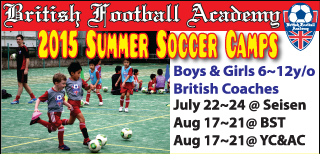
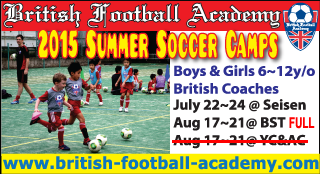
Camp
Delete YCAC camp

diff --git a/e/pages/camp.html b/e/pages/camp.html
@@ -82,7 +82,7 @@
 												<p><img src="../../images/photos/2013camp1.jpg" alt="pic" height="208" width="215" align="right" hspace="5"><b class="red">&quot;Football Fun in the Sun.&quot;<br>
 														What better way for your kids to spend their time this summer?</b><b class="navy"><br>
 													</b><b class="red"><br>
-													</b>All 6-12 year olds are welcome to join our age-specific summer soccer camps at<b> Seisen International School,</b> <b>British School Tokyo, Showa Campus and Yokohama Country &amp; Athletic Club.</b> Let our <b>English FA qualified, all-British coaches</b> enthral, entertain and educate your young ones with their wealth of knowledge and lively, energetic characters. We encourage participants to enrol for the full 5 action-packed-days of football games and fun, but do accept players on a per-day basis. All children will be presented with an <b>official BFA Camp T-shirt and certificate of achievement.</b><b class="red"><br>
+													</b>All 6-12 year olds are welcome to join our age-specific summer soccer camps at<b> Seisen International School</b> <b>and British School Tokyo, Showa Campus.</b> Let our <b>English FA qualified, all-British coaches</b> enthral, entertain and educate your young ones with their wealth of knowledge and lively, energetic characters. We encourage participants to enrol for the full 5 action-packed-days of football games and fun, but do accept players on a per-day basis. All children will be presented with an <b>official BFA Camp T-shirt, hat and certificate of achievement.</b><b class="red"><br>
 													</b><b>REGISTER <a class="content" href="campreg.html">ON-LINE HERE</a></b><b class="red"><br>
 														<br>
 													</b><b>Dates, Venues &amp; Prices per day:</b></p>
@@ -100,16 +100,7 @@
 													
 												</ol>
 												<p><img src="../../images/photos/2013camp_BST.jpg" alt="BST leo field" height="168" width="600" align="middle" border="0"></p>
-												<p><b class="red">YOKOHAMA</b><br>
-													<b>CAMP 3:</b> August 17th (Mon) - 21st (Fri) 5-day camp @ <b><a class="content" href="venueyokohama.html">Yokohama Country &amp; Athletic Club</a></b> (<b><a class="content" href="../../images/mats/Map-to-YCAC.gif?lat=35%2F25%2F14.139&lon=139%2F39%2F20.855&layer=1&sc=3&mode=map&size=l&pointer=on&p=&CE.x=396&CE.y=408" target="_blank">MAP</a></b>)</p>
-												<img src="../../images/photos/ycac_camp.jpg" alt="BST leo field" height="232" width="600" align="middle" border="0">
-												<p><b>Courses &amp; Prices per day @ YC&amp;AC - </b><b class="red"><a class="content" href="venues.html"></a></b><b>(<a class="content" href="campreg.html">sign-up here</a>):</b><br>
-												</p>
-												<ol>
-													<li><b>Ages 6 ~ 8,</b> Time: 3:00 pm ~ 5:00 pm (2 hrs) BFA Members: ¥4,000 <i class="navy">Non BFA Members</i>: ¥5,000<br>
-													<li><b>Ages 9 ~ 12,</b> Time: 3:00 pm ~ 6:00 pm (3 hrs) BFA Members: ¥6,000 <i class="navy">Non BFA Members</i>: ¥7,000<br>
-														(*these times are subject to change)
-												</ol>
+												<p><b class="red"><a class="content" href="venues.html"></a></b></p>
 												<p><img src="../../images/photos/2013camp_cert.jpg" alt="Camp certificate" height="168" width="100" align="right" hspace="3"><b>Important information for participants:</b></p>
 												<ul>
 													<li>Please have your child wear something comfortable to play football.

diff --git a/j/pages/camp.html b/j/pages/camp.html
@@ -98,14 +98,6 @@
 													<li>9〜12歳対象: 午前 09：00 ~ 午後12：00 (3時間) BFAメンバー1 日¥6,000 / BFAメンバー以外1 日¥7,000
 												</ul>
 												<p><img src="../../images/photos/2013camp_BST.jpg" alt="BST camp" height="168" width="600" border="0"></p>
-												<p><b class="red">横浜</b><br>
-												</p>
-												<p><b>キャンプ 3: </b>横浜カントリー＆アスレチック　クラブ（YC&amp;AC）<b><a class="content" href="venueyokohama.html" target="_blank">MAP </a><a class="content" href="https://maps.google.com/maps/ms?msid=206831214258637604914.0004dfa129b7fa6855082&msa=0&ll=35.644411,139.675788&spn=0.005039,0.008701" target="_blank">- </a></b>8月17日 (月) − 21日（金）5日間</p>
-												<ul>
-													<li>6〜8歳対象: 午後3:00 ~ 5:00 (2時間) BFAメンバー1 日¥4,000 / BFAメンバー以外1 日¥5,000
-													<li>9〜12歳対象: 午後3:00 ~ 6:00 (3時間) BFAメンバー1 日¥6,000 / BFAメンバー以外1 日¥7,000
-												</ul>
-												<p><img src="../../images/photos/ycac_camp.jpg" alt="YCAC camp" height="232" width="600" border="0"></p>
 												<p><img src="../../images/photos/2013camp_cert.jpg" alt="lions" height="168" width="100" align="right" hspace="3"><b>ご参加にあたって </b></p>
 												<ul>
 													<li>サッカーがしやすいスポーツウェアを着用してください。
